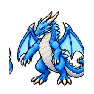
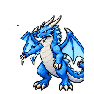
Correct claw downstroke arm length and palm alignment from frame 5 onward

diff --git a/design/enemies/dragon_frost/attack_claw/PROMPT.md b/design/enemies/dragon_frost/attack_claw/PROMPT.md
@@ -1,1 +1,1 @@
-Built-in image_gen. Base: ../attack/dragon_frost_1.png. Generate entire coherent ten-frame5x2 transparent sprite sheet of same blue frost dragon, small blue eyes and original detailed pixel-art. Frame1 normal,2 raising,3 raising,4 highest raising,5 downstroke begins,6 downstroke across chest,7 lowest downstroke,8 return early,9 return middle,10 return late near normal. Both forearms visible throughout, including frame7 continuous shoulder-elbow-wrist-claws. Whole character regenerated to match original reference face and proportions; Rebuilt from scratch using original reference. SCREEN-LEFT arm swings with nearly straight elbow and aligned wrist; SCREEN-RIGHT arm remains idle. Same shoulder-arm-hand continuity all10, no broken joints; grounded hindfeet, stable wings and tail. No fire, weapons, slash effects or pasted body parts. Export ten94x94 transparent PNGs in numeric order. Correction: planted feet baseline y91 in every frame, stable hips and head, original narrow blue-eyed face, frame10 is distinct late recovery, frame1 completes return. Preview frame delays(ms): 180,120,120,140,80,80,80,120,120,120.
+Built-in image_gen. Base: ../attack/dragon_frost_1.png. Generate entire coherent ten-frame5x2 transparent sprite sheet of same blue frost dragon, small blue eyes and original detailed pixel-art. Frame1 normal,2 raising,3 raising,4 highest raising,5 downstroke begins,6 downstroke across chest,7 lowest downstroke,8 return early,9 return middle,10 return late near normal. Both forearms visible throughout, including frame7 continuous shoulder-elbow-wrist-claws. Whole character regenerated to match original reference face and proportions; SCREEN-RIGHT forearm attacks in every frame, remains on screen-right of belly; SCREEN-LEFT forearm remains idle and visible in every frame. No arm switching; grounded hindfeet, stable wings and tail. No fire, weapons, slash effects or pasted body parts. Export ten94x94 transparent PNGs in numeric order. Correction: frames1-4 retained. Frames5-10 derive same arm from frame4 with uniform shorter reach and continuous shoulder rotation; palm/forearm rigidly aligned. Generated trials rejected for limb switching. Planted feet baseline y91 in every frame, stable hips and head, original narrow blue-eyed face, frame10 is distinct late recovery, frame1 completes return. Preview frame delays(ms): 180,120,120,140,80,80,80,120,120,120.
